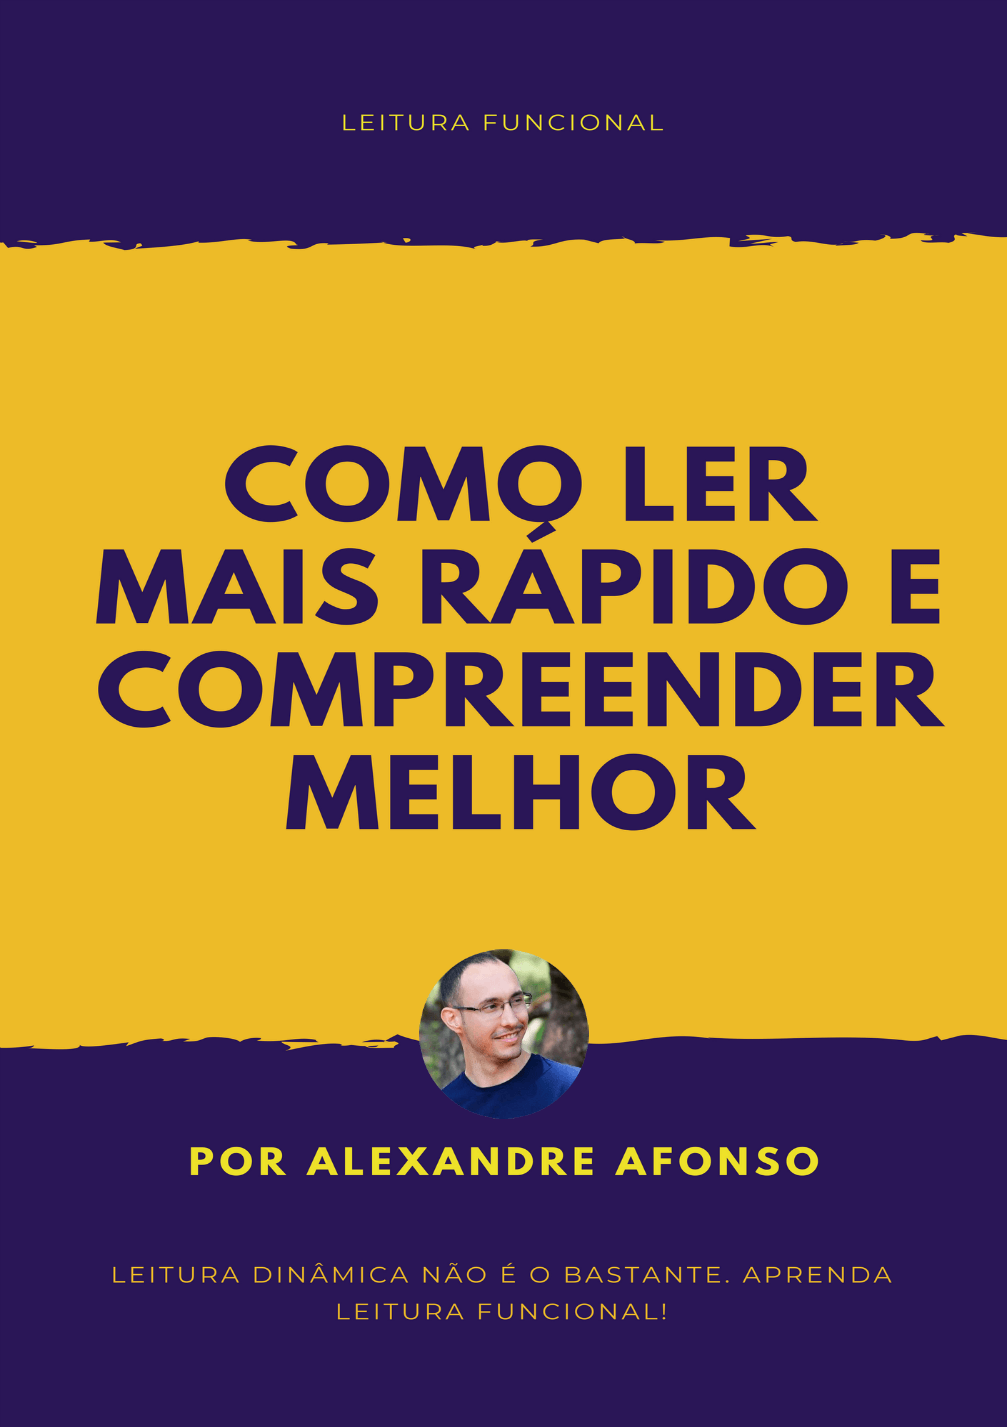
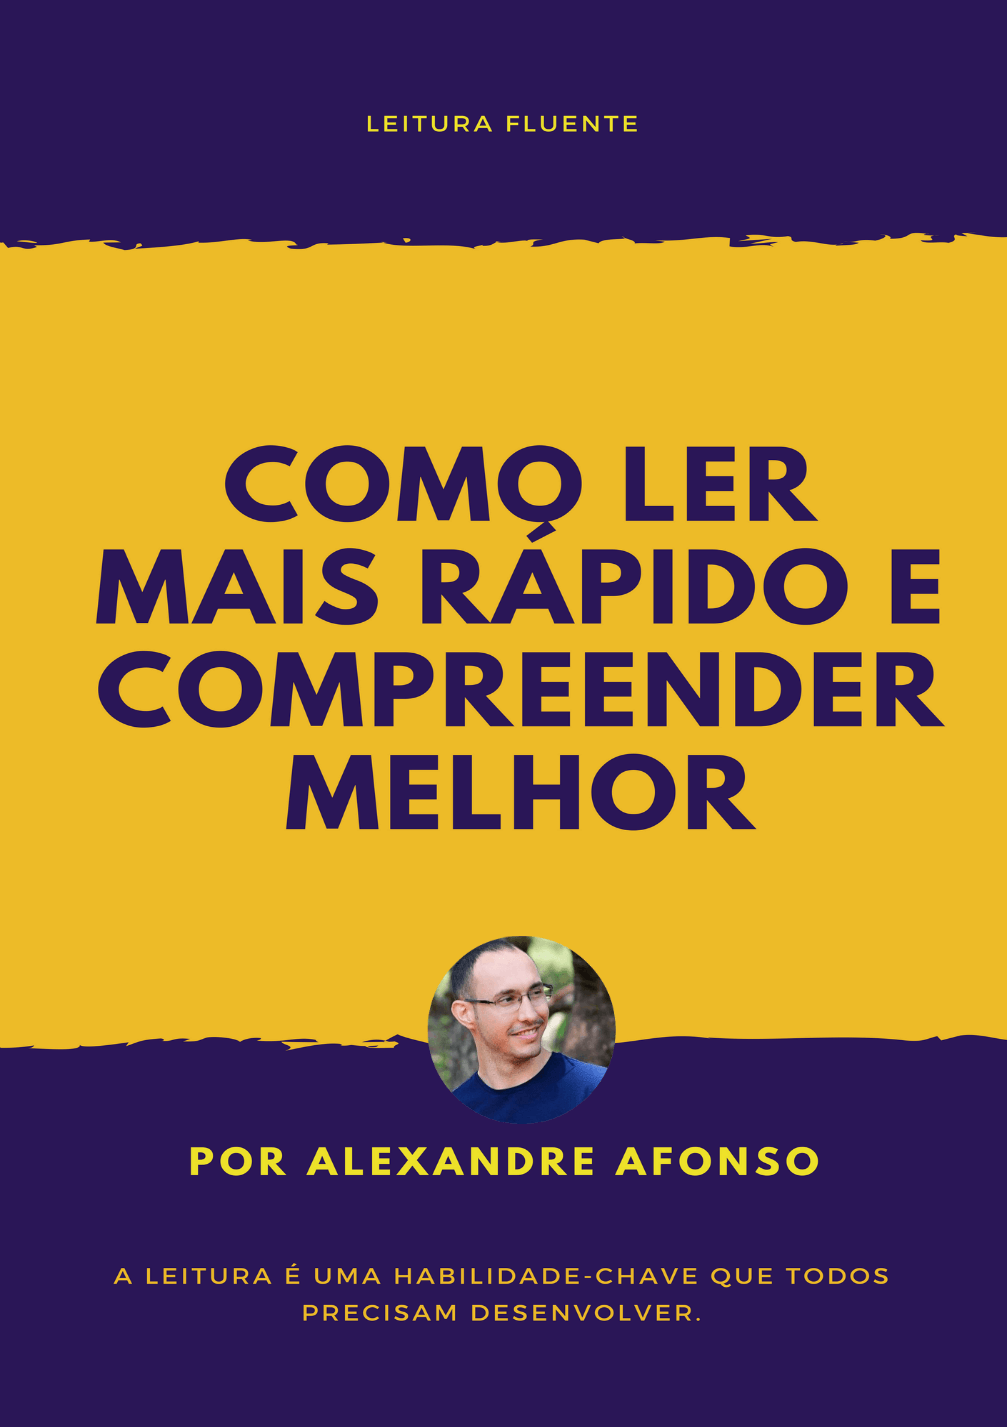
Alterando o nome para Leitura Fluente.

diff --git a/text/07_Conclusao/00.md b/text/07_Conclusao/00.md
@@ -1,6 +1,6 @@
 ## Conclusão
 
-Caminhamos do básico ao avançado em leitura funcional. 
+Caminhamos do básico ao avançado para deixar sua leitura fluente. 
 
 Busquei passar pra você da simples leitura guiada até a leitura por palavras-chave, passando também por técnicas de concentração, compreensão e retenção do texto lido.
 
